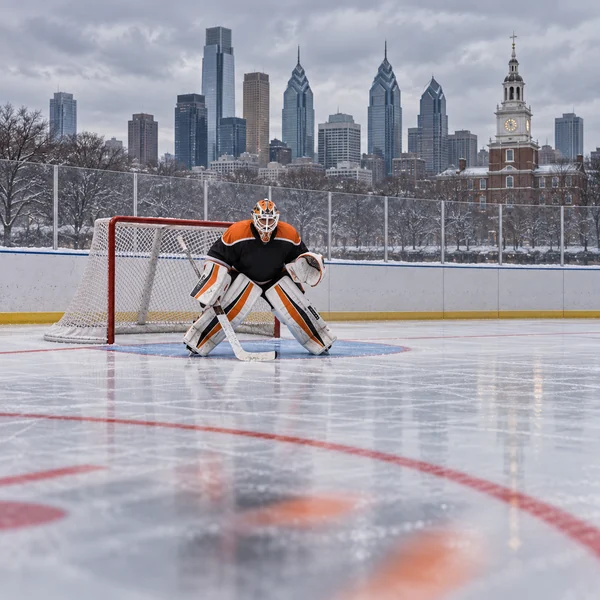
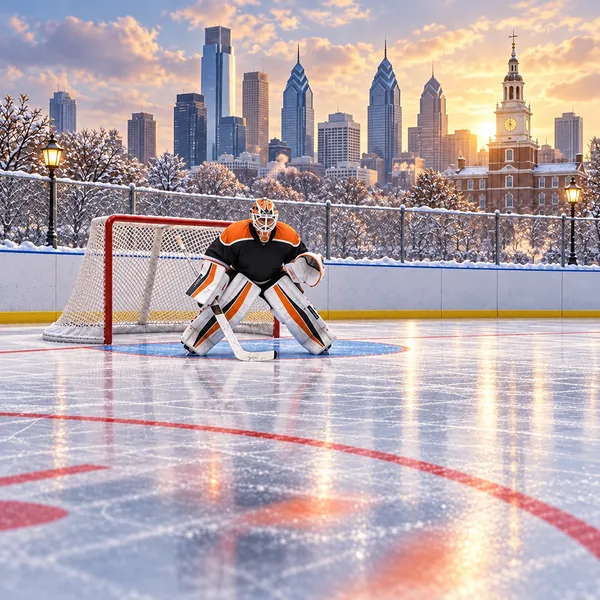
fix: restyle Philadelphia preview and shorten record reward copy

diff --git a/packages/web/src/profile/BonusRecordsModal.tsx b/packages/web/src/profile/BonusRecordsModal.tsx
@@ -183,8 +183,8 @@ export function BonusRecordsModal({
         {skillName} · {title}
       </p>
       <div className="bonus-records-modal__rewards">
-        <p>Побей свой рекорд – получишь <span className="bonus-records-modal__reward" style={{ color: 'var(--reward-star)' }} aria-label="2 звезды"><Star size={14} fill="currentColor" aria-hidden="true" />2</span> и <span className="bonus-records-modal__reward" style={{ color: 'var(--reward-experience)' }} aria-label="10 опыта"><TrendingUp size={14} aria-hidden="true" />10</span>.</p>
-        <p>Побей рекорд локации среди всех игроков – получишь <span className="bonus-records-modal__reward" style={{ color: 'var(--reward-star)' }} aria-label="10 звёзд"><Star size={14} fill="currentColor" aria-hidden="true" />10</span> и <span className="bonus-records-modal__reward" style={{ color: 'var(--reward-experience)' }} aria-label="30 опыта"><TrendingUp size={14} aria-hidden="true" />30</span>.</p>
+        <p>Улучшить личный рекорд – <span className="bonus-records-modal__reward" style={{ color: 'var(--reward-star)' }} aria-label="2 звезды"><Star size={14} fill="currentColor" aria-hidden="true" />2</span> и <span className="bonus-records-modal__reward" style={{ color: 'var(--reward-experience)' }} aria-label="10 опыта"><TrendingUp size={14} aria-hidden="true" />10</span>.</p>
+        <p>Улучшить общий рекорд локации – <span className="bonus-records-modal__reward" style={{ color: 'var(--reward-star)' }} aria-label="10 звёзд"><Star size={14} fill="currentColor" aria-hidden="true" />10</span> и <span className="bonus-records-modal__reward" style={{ color: 'var(--reward-experience)' }} aria-label="30 опыта"><TrendingUp size={14} aria-hidden="true" />30</span>.</p>
         <p>Награда начисляется за каждое улучшение. Первый личный результат и повтор рекорда награды не дают. Первый результат в пустом рейтинге тоже без бонуса.</p>
       </div>
       <p className="modal-copy bonus-records-modal__explanation">{explanation}</p>

diff --git a/packages/web/src/game/bonusGameArtwork.ts b/packages/web/src/game/bonusGameArtwork.ts
@@ -6,6 +6,7 @@ type BonusGameCatalogArtworkKind = 'featured' | 'compact';
 
 export function versionBonusGameArtwork(url: string): string {
   if (!url.startsWith('/bonus-games/') || url.includes('?')) return url;
+  if (url === '/bonus-games/nhl-cities/previews/philadelphia.webp') return `${url}?v=20261009-philadelphia-v2`;
   if (url.startsWith('/bonus-games/level-previews/') || url.startsWith('/bonus-games/finales/')) {
     return `${url}?v=${CHALLENGE_STORY_ARTWORK_VERSION}`;
   }
